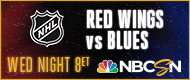
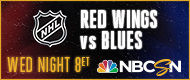
190

Changed region(s): [[0.3947, 0.1, 0.8684, 0.625], [0.1579, 0.125, 0.3684, 0.6]]

diff --git a/022818_DET-STL/html_css/160x600/style.css b/022818_DET-STL/html_css/160x600/style.css
@@ -92,7 +92,7 @@ body{
 
 #network{
 	position: absolute;
-	left: 8px;
+	left: 15px;
 	top: 296px;
 	width: 131px;
 	height: 27px;
